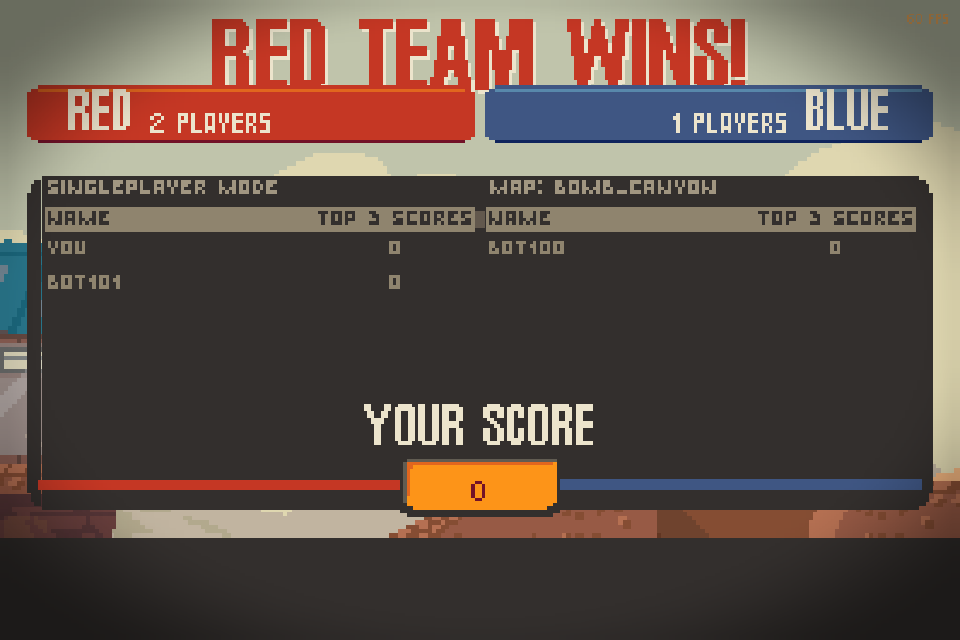
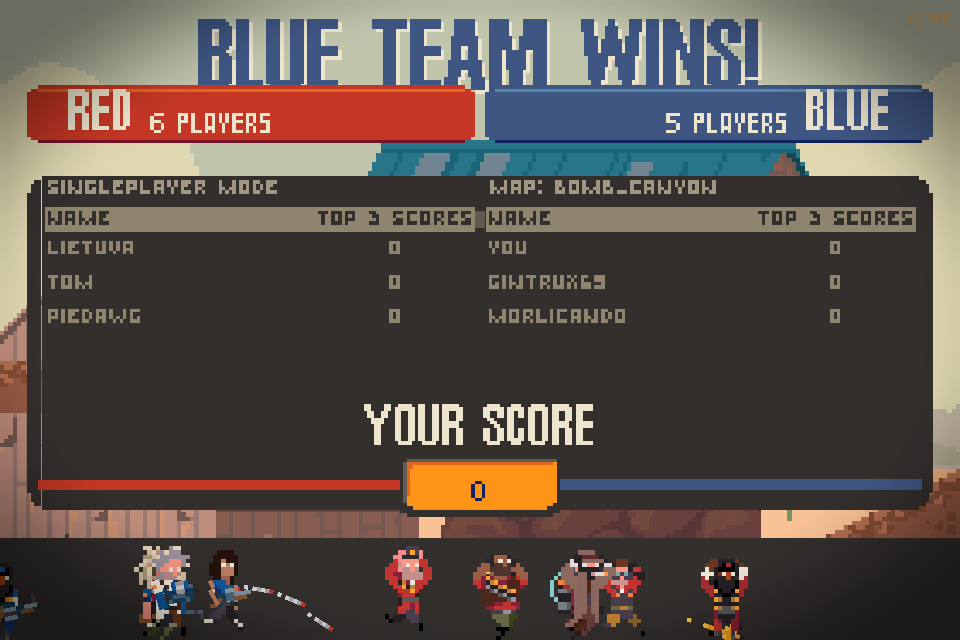
docs: describe version 0.7.0 in the README

diff --git a/README.md b/README.md
@@ -29,10 +29,10 @@ _Native C and OpenGL ES 2.0, offline matches against bots, your own copy of the 
 ---
 
 > [!NOTE]
-> **Version 0.6.0 is out.** Play single player against the bots of
-> GANGFORT on the three maps: King of the Hill, the bomb, and capture the
-> flag, with 8, 10, or 12 players, at 60 frames each second on the iPhone
-> 4S. The sounds come in the next version. [TODO.md](TODO.md) lists the
+> **Version 0.7.0 is out.** Play single player against the bots of
+> GANGFORT on the three maps, with the sounds, the music, the effects, and
+> the kill cam of the original, at 60 frames each second on the iPhone 4S.
+> The menus and the items come in the next version. [TODO.md](TODO.md) lists the
 > roadmap.
 > [CHANGELOG.md](CHANGELOG.md) lists the changes of each release.
 
@@ -79,7 +79,7 @@ _Native C and OpenGL ES 2.0, offline matches against bots, your own copy of the 
 <p align="center"><i>Capture the flag</i></p>
 </td>
 <td width="50%" valign="top">
-<img src="assets/screenshots/roundover.png" alt="The round-over dialog: red team wins, the top 3 scores of each team, and your score">
+<img src="assets/screenshots/roundover.png" alt="The round-over dialog: blue team wins, the top 3 scores of each team, and the classes that run on the bottom bar">
 <p align="center"><i>The end of a round</i></p>
 </td>
 </tr>
@@ -99,6 +99,8 @@ _Native C and OpenGL ES 2.0, offline matches against bots, your own copy of the 
 <p align="center"><i>The team dialog</i></p>
 </td>
 <td width="50%" valign="top">
+<img src="assets/screenshots/killcam.png" alt="The kill cam: the frame stops on a fight on gts_gantown, with bodies, shots, and the respawn text">
+<p align="center"><i>The kill cam</i></p>
 </td>
 </tr>
 </table>
